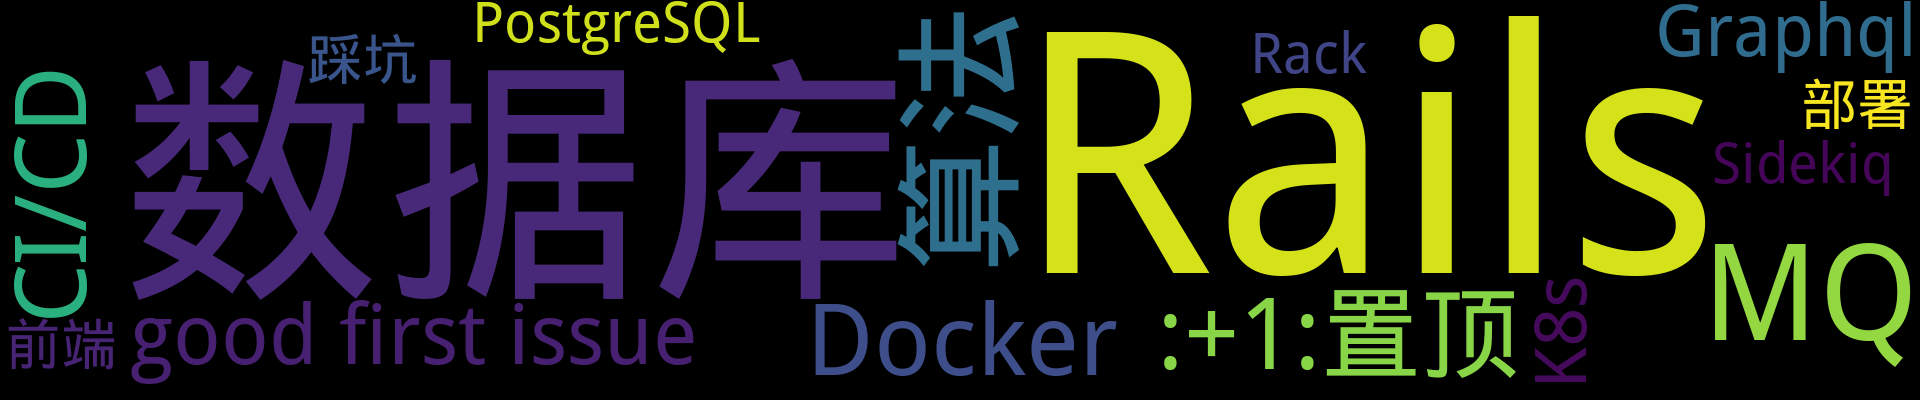
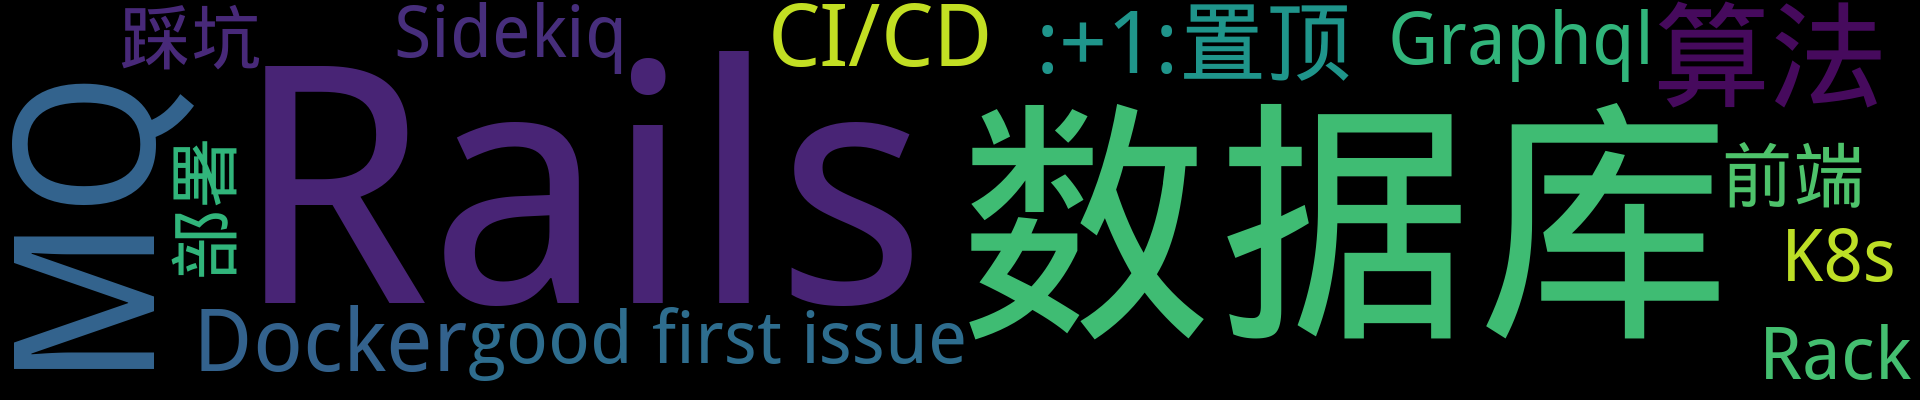
Update from Github Action

diff --git a/README.md b/README.md
@@ -1,9 +1,9 @@
 
 
 <p align='center'>
-    <img src="https://badgen.net/badge/labels/22"/>
+    <img src="https://badgen.net/badge/labels/19"/>
     <img src="https://badgen.net/github/issues/iamtomas/ghiblog"/>
-    <img src="https://badgen.net/badge/last-commit/2022-04-18 15:51:34"/>
+    <img src="https://badgen.net/badge/last-commit/2022-04-18 16:17:23"/>
     <img src="https://badgen.net/github/forks/iamtomas/ghiblog"/>
     <img src="https://badgen.net/github/stars/iamtomas/ghiblog"/>
     <img src="https://badgen.net/github/watchers/iamtomas/ghiblog"/>
@@ -137,6 +137,13 @@
 </details>
 
 <details>
+<summary>Git	<sup>0:newspaper:</sup></summary>
+
+
+
+</details>
+
+<details>
 <summary>good first issue	<sup>1:newspaper:</sup></summary>
 
 - [基于 Github Action 自动生成并更新 GitHub Issue 博客的 ReadMe](https://github.com/iamtomas/note/issues/1)  <sup>0 :speech_balloon:</sup>  	 
@@ -165,21 +172,6 @@
 
 - [Kafka 3 废弃 ZooKeeper ？](https://github.com/iamtomas/note/issues/40)  <sup>0 :speech_balloon:</sup>  	 
 - [初识 Kafka](https://github.com/iamtomas/note/issues/32)  <sup>0 :speech_balloon:</sup>  	 
-
-
-</details>
-
-<details>
-<summary>MySQL	<sup>0:newspaper:</sup></summary>
-
-
-
-</details>
-
-<details>
-<summary>PostgreSQL	<sup>1:newspaper:</sup></summary>
-
-- [如何本地不安装 postgreSQL 情况下执行 gem install pg](https://github.com/iamtomas/note/issues/21)  <sup>0 :speech_balloon:</sup>  	 
 
 
 </details>
@@ -237,13 +229,6 @@
 </details>
 
 <details>
-<summary>技术栈	<sup>0:newspaper:</sup></summary>
-
-
-
-</details>
-
-<details>
 <summary>数据库	<sup>4:newspaper:</sup></summary>
 
 - [PostgreSQL 查询原理](https://github.com/iamtomas/note/issues/18)  <sup>0 :speech_balloon:</sup>  	 
@@ -275,13 +260,6 @@
 <summary>部署	<sup>1:newspaper:</sup></summary>
 
 - [M1 开发环境](https://github.com/iamtomas/note/issues/35)  <sup>0 :speech_balloon:</sup>  	 
-
-
-</details>
-
-<details>
-<summary>面试题	<sup>0:newspaper:</sup></summary>
-
 
 
 </details>
